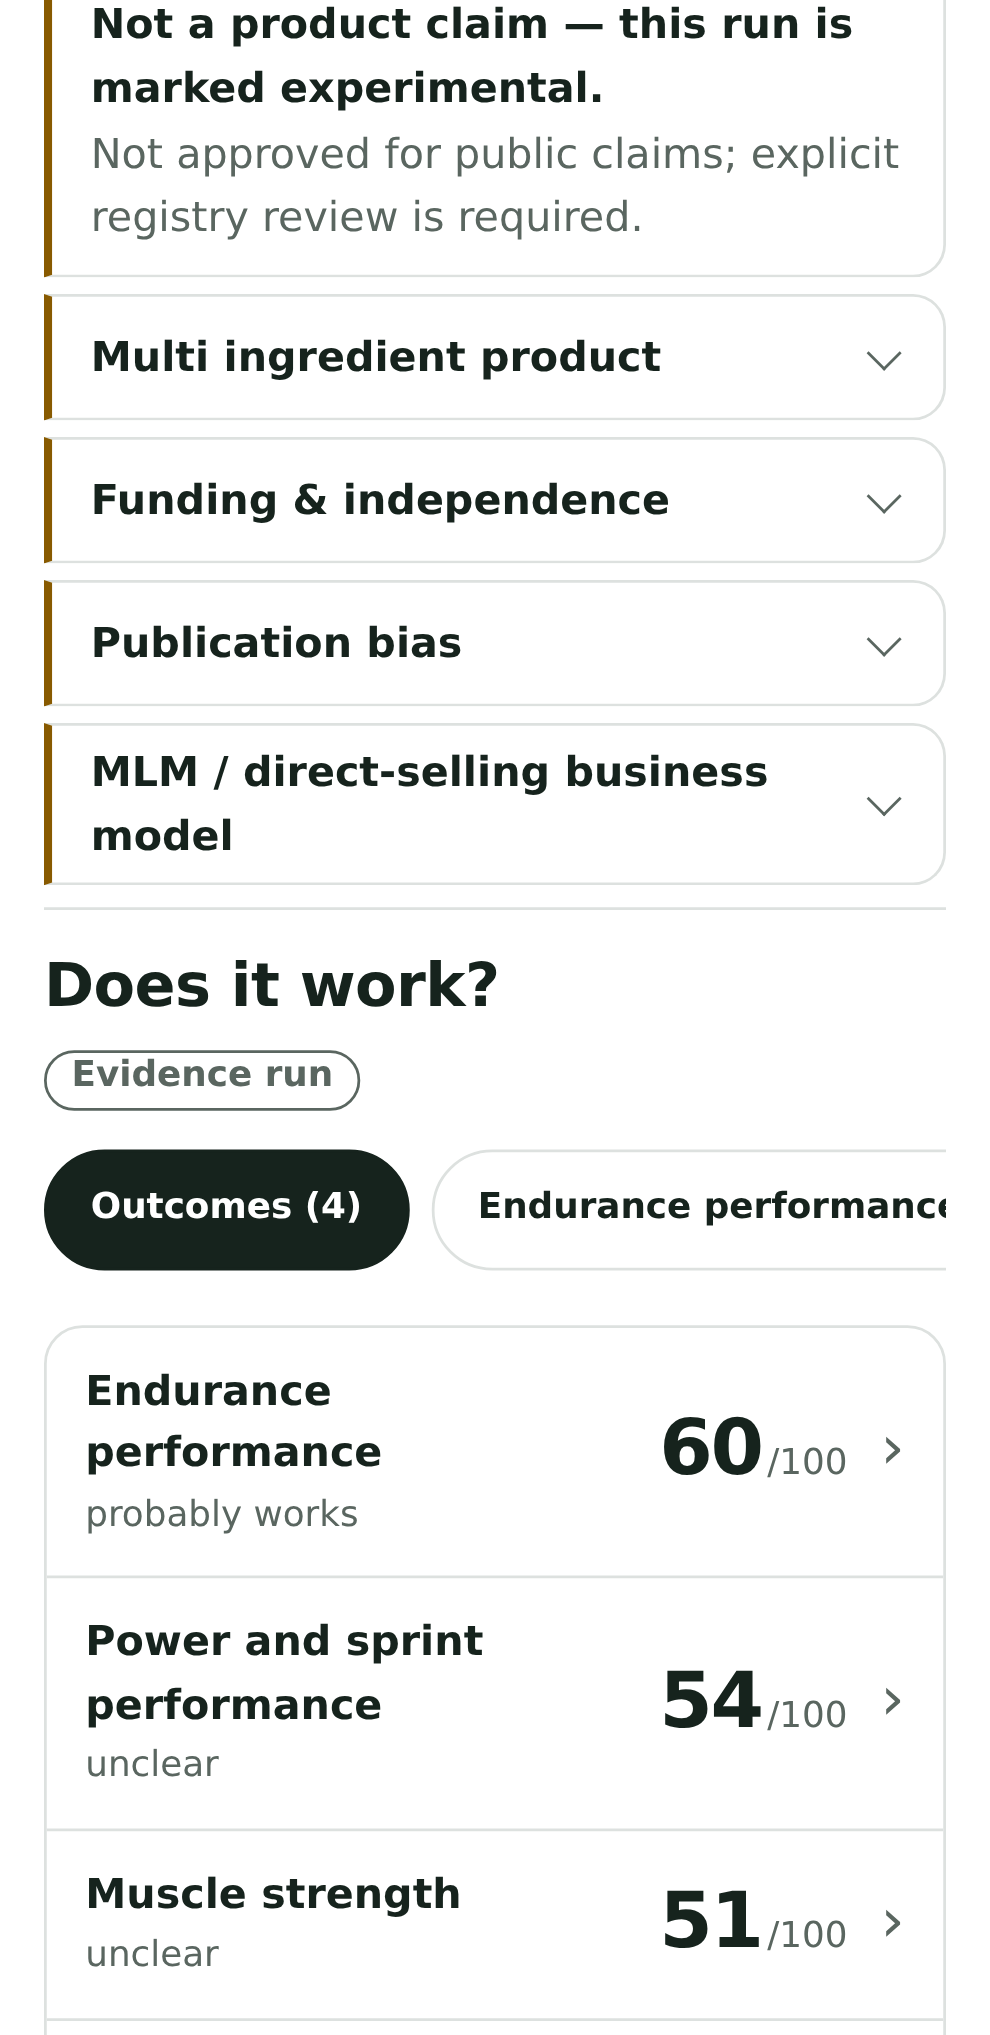
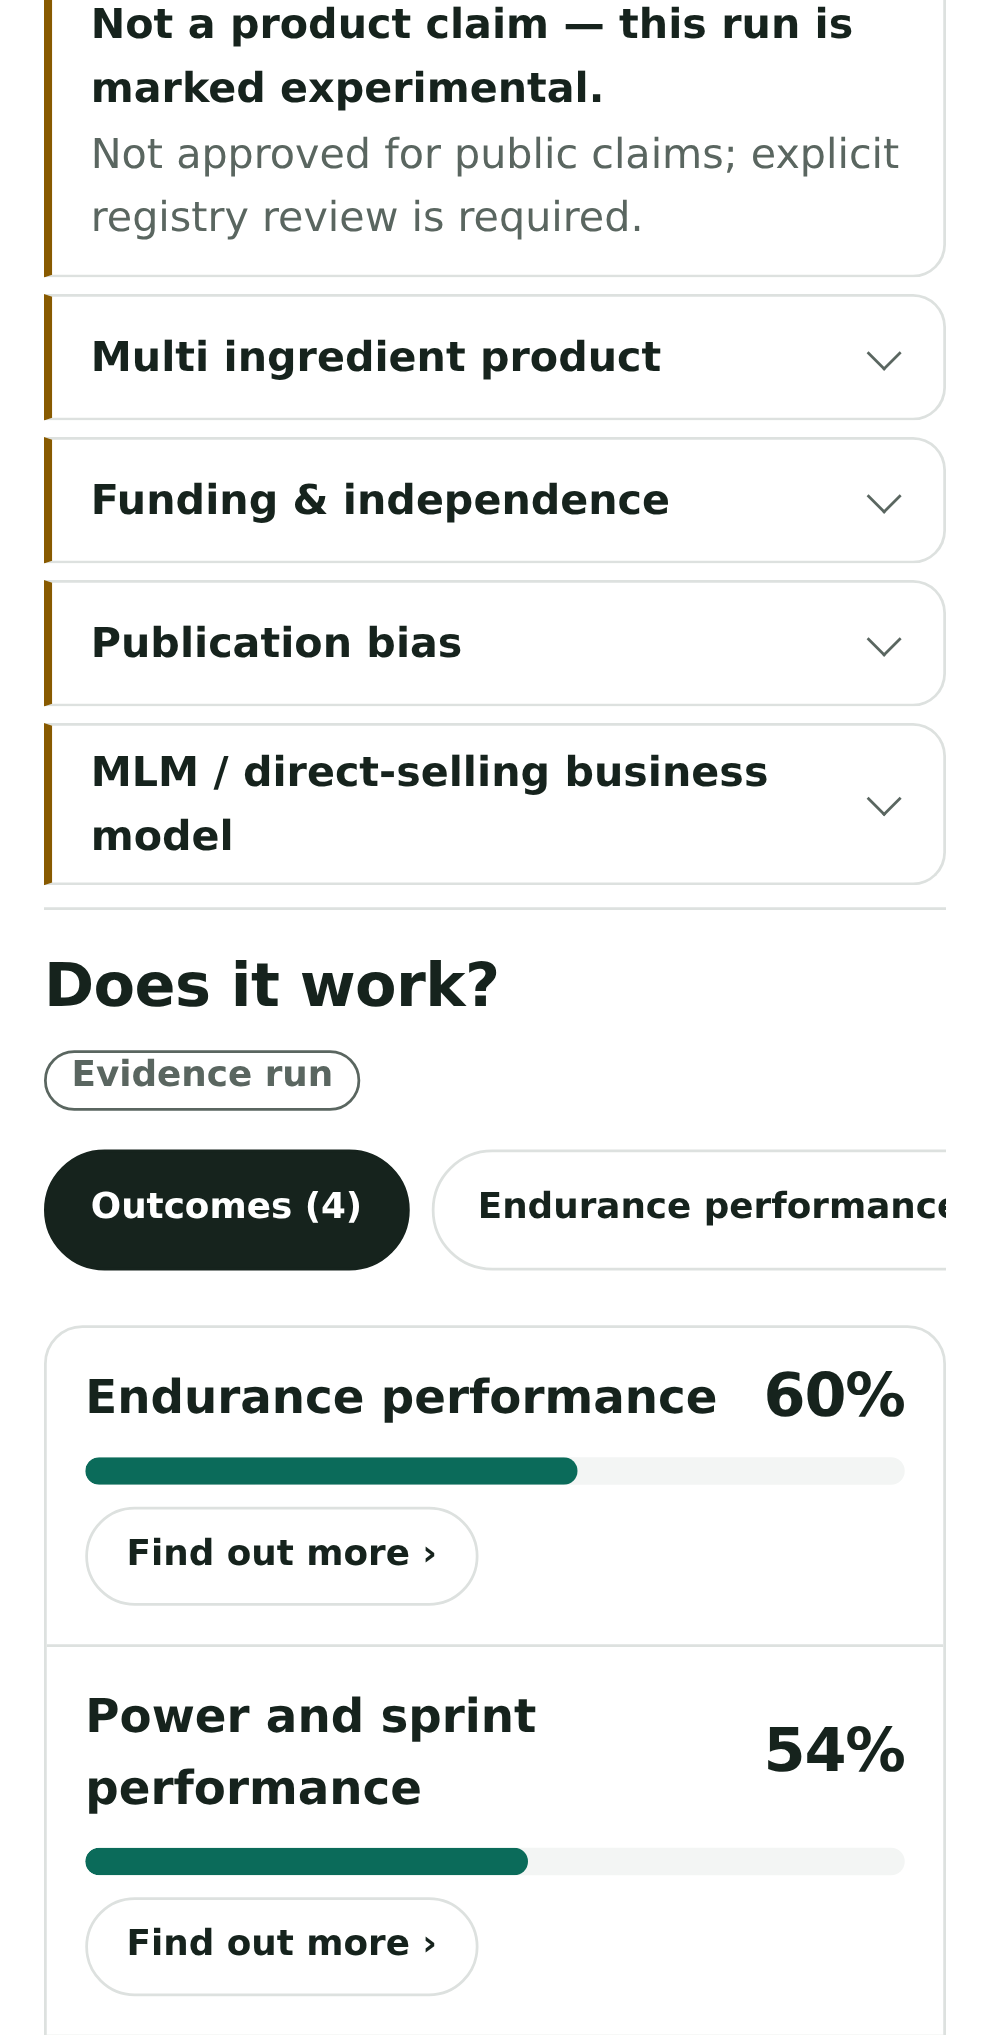
Preview: outcome rows as progress bars (score as %), 'Find out more' opens the outcome tab; design-lab keeps Hero + Overlap only
Applied to both the design-lab A/B card (app/design-lab/ab) and the /scan Outcomes tab so they match. Verdict word removed from the list rows; the bar and the number carry it. Gated rows keep a hatched track and an em dash. Checked: 436 tests, typecheck, lint (0 errors), build; 390/360 screenshots in docs/design/ref/tabs-preview.

Changed region(s): [[0.0606, 0.6501, 0.9394, 1.0], [0.6667, 0.8049, 0.9091, 0.8668], [0.6667, 0.9287, 0.8485, 0.9597]]

diff --git a/app/design-lab/ab/prototype.tsx b/app/design-lab/ab/prototype.tsx
@@ -186,12 +186,10 @@ const TRACK_FOR: Record<EffectBar["kind"], TrackState> = {
   fictional_points: "fill",
 };
 
-type Layout = "hero" | "middle" | "overlap" | "split";
+type Layout = "hero" | "overlap";
 const LAYOUTS: { id: Layout; name: string; blurb: string }[] = [
   { id: "hero", name: "1 · Hero", blurb: "photo on top" },
-  { id: "middle", name: "2 · Middle", blurb: "score, photo, rows" },
-  { id: "overlap", name: "3 · Overlap", blurb: "score floats on photo" },
-  { id: "split", name: "4 · Split", blurb: "photo beside score" },
+  { id: "overlap", name: "2 · Overlap", blurb: "score floats on photo" },
 ];
 
 function Interval({ scale }: { scale: IntervalScale }) {
@@ -223,7 +221,7 @@ export interface AbPrototypeProps {
 }
 
 export default function AbPrototype({ initial, publicTest = false }: AbPrototypeProps = {}) {
-  const [layout, setLayout] = useState<Layout>(initial?.layout ?? "middle");
+  const [layout, setLayout] = useState<Layout>(initial?.layout ?? "hero");
   const [key, setKey] = useState(initial?.product ?? "creatine");
   const [tab, setTab] = useState<string | null>(initial?.outcome ?? null); // null = the Outcomes list
   const [open, setOpen] = useState<string | null>(initial?.open ?? null);
@@ -267,11 +265,15 @@ export default function AbPrototype({ initial, publicTest = false }: AbPrototype
     };
   }) : [];
 
+  /* Outcome rows read like the dimension rows on the right: name, a progress
+   * bar filled to the 0-100 headline and that number as a percentage. No band
+   * word ("probably works") -- the bar and the number carry it; the drill-in
+   * button says where the detail lives. */
   const outcomeRows: Row[] = scored.map((x, i): Row => ({
     id: `o${i}`, name: x.o.name, sub: x.o.population, color: isPicked(x.o) ? "var(--ab-r1)" : "var(--ab-track)",
-    fill: null, track: "none", scale: null,
-    pts: x.r && x.r.headline !== null ? String(x.r.headline) : "—",
-    word: isPicked(x.o) ? (x.r ? x.r.label : x.o.effect.word) : "Not picked",
+    fill: x.r && x.r.headline !== null ? x.r.headline / 100 : null, track: x.r && x.r.headline !== null ? "fill" : "hatch", scale: null,
+    pts: x.r && x.r.headline !== null ? `${x.r.headline}%` : "—",
+    word: isPicked(x.o) ? "" : "Not picked",
     negative: false, detail: null, lines: [], sourceLinks: [], provenance: null, jump: x.k, dim: !isPicked(x.o),
   }));
   const rowsToShow = isList ? outcomeRows : dimRows;
@@ -317,7 +319,9 @@ export default function AbPrototype({ initial, publicTest = false }: AbPrototype
         <span className="ab-bar-name">{d.name}{d.sub && <small>{d.sub}</small>}</span>
         <span className="ab-bar-word">{d.word}</span>
         <span className="ab-bar-pts">{d.pts}</span>
-        <span className="ab-chev" aria-hidden="true"><svg width="16" height="16" viewBox="0 0 16 16"><path d={d.jump !== null ? "M6 3l5 5-5 5" : "M3 6l5 5 5-5"} fill="none" stroke="currentColor" strokeWidth="1.8" strokeLinecap="round" strokeLinejoin="round"/></svg></span>
+        {d.jump !== null
+          ? <span className="ab-more" aria-hidden="true">Find out more <svg width="12" height="12" viewBox="0 0 16 16"><path d="M6 3l5 5-5 5" fill="none" stroke="currentColor" strokeWidth="2" strokeLinecap="round" strokeLinejoin="round"/></svg></span>
+          : <span className="ab-chev" aria-hidden="true"><svg width="16" height="16" viewBox="0 0 16 16"><path d="M3 6l5 5 5-5" fill="none" stroke="currentColor" strokeWidth="1.8" strokeLinecap="round" strokeLinejoin="round"/></svg></span>}
         {d.track === "interval" && d.scale && <Interval scale={d.scale} />}
         {d.track !== "interval" && d.track !== "none" && <span className={`ab-bar-track ${d.track}`}>{d.track === "fill" && d.fill !== null && <i style={{ width: `${Math.round(d.fill * 100)}%`, background: d.negative ? "var(--ab-warn)" : d.color }} />}{d.track === "null-result" && <i className="ab-null-tick" />}</span>}
       </button>
@@ -360,12 +364,10 @@ export default function AbPrototype({ initial, publicTest = false }: AbPrototype
     </div>
   </main>;
 
-  return <main id="main-content" className="ab-stage"><aside className="ab-side"><a href="/design-lab/mobile">← Field Notebook</a><span className="ab-kicker">RESULT CARD</span><h1>Show the tub.<br />Then the <em>truth.</em></h1><p>Photo takes a third of the phone. Four placements to compare; the rows are identical in all of them, and none of them carries an overall score.</p><span className="ab-kicker">PHOTO PLACEMENT</span><div className="ab-layouts" role="tablist" aria-label="Layout">{LAYOUTS.map((l) => <button key={l.id} role="tab" aria-selected={layout === l.id} onClick={() => { setLayout(l.id); setOpen(null); }}><b>{l.name}</b><small>{l.blurb}</small></button>)}</div><span className="ab-kicker">EARLIER AUDITS · UPDATED EVIDENCE POLICY</span><div className="ab-scenarios">{Object.entries(liveScenarios).map(([k, v]) => <button key={k} aria-pressed={key === k} onClick={() => pick(k)}>{v.title}<small>{v.outcomes.length} outcomes · {v.live?.sources} sources</small></button>)}</div><span className="ab-kicker">EFFECT-ONLY RESEARCH · NEW</span><div className="ab-scenarios">{Object.entries(researchScenarios).map(([k, v]) => <button key={k} aria-pressed={key === k} onClick={() => pick(k)}>{v.title}<small>{v.outcomes.length} outcomes · {v.research?.sources.length} sources · no score</small></button>)}</div>{profileRow}<span className="ab-kicker">WHAT THE USER PICKED</span><div className="ab-picks">{s.outcomes.map((o) => <label key={outcomeKey(o.name, o.population)}><input type="checkbox" checked={isPicked(o)} onChange={() => togglePick(o)} />{o.name}{o.population && <small>{o.population}</small>}</label>)}</div><details className="ab-provenance"><summary>Fictional test ledgers</summary><div className="ab-scenarios">{Object.entries(scenarios).map(([k, v]) => <button key={k} aria-pressed={key === k} onClick={() => pick(k)}>{v.title}<small>{v.product}</small></button>)}</div></details>{s.live ? <p className="ab-fine"><strong>Previous audit</strong> run {s.live.runAt} by {s.live.model}. Its effect text and sources are shown as written then and were <strong>not reverified</strong> in this pass; scores now exclude funding and publication-bias penalties. Model confidence: {s.live.confidence}. {s.live.doseNote}</p> : s.research ? <p className="ab-fine"><strong>Effect-only research pass</strong> {s.research.meta.run_at}, {s.research.meta.model}. {s.research.meta.note} <b>Reading rules:</b> {s.research.guards.join(" ")}</p> : <p className="ab-fine">Hand-written inputs to exercise the rubric; no search or model call produced this card. The numeric bars here are invented.</p>}</aside>
+  return <main id="main-content" className="ab-stage"><aside className="ab-side"><a href="/design-lab/mobile">← Field Notebook</a><span className="ab-kicker">RESULT CARD</span><h1>Show the tub.<br />Then the <em>truth.</em></h1><p>Photo takes a third of the phone. Two placements to compare; the rows are identical in both, and neither carries an overall score.</p><span className="ab-kicker">PHOTO PLACEMENT</span><div className="ab-layouts" role="tablist" aria-label="Layout">{LAYOUTS.map((l) => <button key={l.id} role="tab" aria-selected={layout === l.id} onClick={() => { setLayout(l.id); setOpen(null); }}><b>{l.name}</b><small>{l.blurb}</small></button>)}</div><span className="ab-kicker">EARLIER AUDITS · UPDATED EVIDENCE POLICY</span><div className="ab-scenarios">{Object.entries(liveScenarios).map(([k, v]) => <button key={k} aria-pressed={key === k} onClick={() => pick(k)}>{v.title}<small>{v.outcomes.length} outcomes · {v.live?.sources} sources</small></button>)}</div><span className="ab-kicker">EFFECT-ONLY RESEARCH · NEW</span><div className="ab-scenarios">{Object.entries(researchScenarios).map(([k, v]) => <button key={k} aria-pressed={key === k} onClick={() => pick(k)}>{v.title}<small>{v.outcomes.length} outcomes · {v.research?.sources.length} sources · no score</small></button>)}</div>{profileRow}<span className="ab-kicker">WHAT THE USER PICKED</span><div className="ab-picks">{s.outcomes.map((o) => <label key={outcomeKey(o.name, o.population)}><input type="checkbox" checked={isPicked(o)} onChange={() => togglePick(o)} />{o.name}{o.population && <small>{o.population}</small>}</label>)}</div><details className="ab-provenance"><summary>Fictional test ledgers</summary><div className="ab-scenarios">{Object.entries(scenarios).map(([k, v]) => <button key={k} aria-pressed={key === k} onClick={() => pick(k)}>{v.title}<small>{v.product}</small></button>)}</div></details>{s.live ? <p className="ab-fine"><strong>Previous audit</strong> run {s.live.runAt} by {s.live.model}. Its effect text and sources are shown as written then and were <strong>not reverified</strong> in this pass; scores now exclude funding and publication-bias penalties. Model confidence: {s.live.confidence}. {s.live.doseNote}</p> : s.research ? <p className="ab-fine"><strong>Effect-only research pass</strong> {s.research.meta.run_at}, {s.research.meta.model}. {s.research.meta.note} <b>Reading rules:</b> {s.research.guards.join(" ")}</p> : <p className="ab-fine">Hand-written inputs to exercise the rubric; no search or model call produced this card. The numeric bars here are invented.</p>}</aside>
   <div className="ab-phone"><div className="ab-status"><b>9:41</b><i /><span>▮▮▮ ▰</span></div><div className={`ab-screen layout-${layout}`}>
     {layout === "hero" && <>{header}{photo}{tabs}<section className="ab-card">{block}{warnings}{bars}{gates}</section></>}
-    {layout === "middle" && <>{header}{tabs}{block}{warnings}{photo}<section className="ab-card">{bars}{gates}</section></>}
     {layout === "overlap" && <>{photo}<div className="ab-overlap-wrap">{header}{block}</div>{tabs}{warnings}<section className="ab-card">{bars}{gates}</section></>}
-    {layout === "split" && <>{header}{tabs}<div className="ab-split">{photo}<div className="ab-split-score">{block}</div></div>{warnings}<section className="ab-card">{bars}{gates}</section></>}
   </div></div>
-  <aside className="ab-notes"><span className="ab-kicker">THE FOUR PLACEMENTS</span><h3>1 · Hero</h3><p>Photo first, big and calm. The outcome list sits under it. Most “product page” feeling.</p><h3>2 · Middle</h3><p>Outcomes first, photo between the intro and the rows — the founder’s “a third, in the middle”.</p><h3>3 · Overlap</h3><p>Full-bleed photo; the block floats over its bottom edge. Most editorial, least whitespace.</p><h3>4 · Split</h3><p>Photo left, text right, side by side. Shortest; leaves room below the rows.</p><h3>Outcomes first</h3><p>Landing tab. <b>There is no overall number and no overall band.</b> A product is not one benefit: each row is a question in a named population, and tapping it drills in. Numbers beside a row are the earlier rubric, shown unchanged.</p><h3>The Effect bar</h3><p>Never a tier fill. When a source reported an estimate and an interval, the interval is drawn in its own unit and labelled <i>reported estimate, not a grade</i>. With an estimate and no interval, the point is drawn and the interval is called unavailable. Otherwise the track is hatched and reads <i>size not graded</i> — which is not the same as <i>no evidence found</i> or <i>no meaningful benefit</i>.</p></aside></main>;
+  <aside className="ab-notes"><span className="ab-kicker">THE TWO PLACEMENTS</span><h3>1 · Hero</h3><p>Photo first, big and calm. The outcome list sits under it. Most “product page” feeling.</p><h3>2 · Overlap</h3><p>Full-bleed photo; the block floats over its bottom edge. Most editorial, least whitespace.</p><p className="ab-fine">Middle and Split were dropped 2026-09-16 (founder pick).</p><h3>Outcomes first</h3><p>Landing tab. <b>There is no overall number and no overall band.</b> A product is not one benefit: each row is a question in a named population, and tapping it drills in. Numbers beside a row are the earlier rubric, shown unchanged.</p><h3>The Effect bar</h3><p>Never a tier fill. When a source reported an estimate and an interval, the interval is drawn in its own unit and labelled <i>reported estimate, not a grade</i>. With an estimate and no interval, the point is drawn and the interval is called unavailable. Otherwise the track is hatched and reads <i>size not graded</i> — which is not the same as <i>no evidence found</i> or <i>no meaningful benefit</i>.</p></aside></main>;
 }

diff --git a/app/globals.css b/app/globals.css
@@ -1324,18 +1324,23 @@ body:has(.scan-page) .footer-inner p:last-child { display: none; }
 .scan-page .sc-outcome-list { list-style: none; margin: 0; padding: 0; border: 1px solid var(--sp-line); border-radius: 14px; background: var(--sp-white); overflow: hidden; }
 .scan-page .sc-outcome-list li + li { border-top: 1px solid var(--sp-line); }
 .scan-page .sc-outcome-row {
-  display: grid; grid-template-columns: 1fr auto auto; align-items: center; gap: 12px;
-  width: 100%; min-height: 64px; padding: 12px 14px; border: 0; background: transparent; color: inherit;
+  display: grid; grid-template-columns: 1fr auto; grid-template-rows: auto auto auto; align-items: center; gap: 8px 12px;
+  width: 100%; padding: 14px; border: 0; background: transparent; color: inherit;
   font: inherit; text-align: left; cursor: pointer;
 }
 .scan-page .sc-outcome-row:hover { background: var(--sp-tint); }
-.scan-page .sc-outcome-row-name { display: grid; gap: 2px; min-width: 0; }
-.scan-page .sc-outcome-row-name strong { font-size: var(--fs-2); font-weight: 600; }
-.scan-page .sc-outcome-row-name .sc-verdict { margin: 0; font-size: var(--fs-1); color: var(--sp-mute); }
-.scan-page .sc-outcome-row-score { display: flex; align-items: baseline; gap: 2px; font-variant-numeric: tabular-nums; }
-.scan-page .sc-outcome-row-score strong { font-size: var(--fs-5); font-weight: 700; letter-spacing: -0.03em; line-height: 1; }
-.scan-page .sc-outcome-row-score span { color: var(--sp-mute); font-size: 13px; }
-.scan-page .sc-outcome-row-chev { color: var(--sp-mute); font-size: 22px; line-height: 1; }
+.scan-page .sc-outcome-row-name { grid-column: 1; grid-row: 1; min-width: 0; }
+.scan-page .sc-outcome-row-name strong { font-size: var(--fs-3); font-weight: 600; }
+.scan-page .sc-outcome-row-score { grid-column: 2; grid-row: 1; font-variant-numeric: tabular-nums; }
+.scan-page .sc-outcome-row-score strong { font-size: var(--fs-4); font-weight: 700; letter-spacing: -0.02em; line-height: 1; }
+.scan-page .sc-outcome-row-track { grid-column: 1 / 3; grid-row: 2; display: block; height: 10px; border-radius: 999px; background: var(--sp-tint); overflow: hidden; }
+.scan-page .sc-outcome-row-gated .sc-outcome-row-track { background: repeating-linear-gradient(135deg, var(--sp-tint) 0 5px, transparent 5px 9px); border: 1px dashed var(--sp-line); }
+.scan-page .sc-outcome-row-fill { display: block; height: 100%; border-radius: 999px; background: var(--sp-measured); }
+.scan-page .sc-outcome-row-more {
+  grid-column: 1 / 3; grid-row: 3; justify-self: start; display: inline-flex; align-items: center; min-height: 36px; padding: 0 14px;
+  border: 1px solid var(--sp-line); border-radius: 999px; background: var(--sp-white); font-size: var(--fs-1); font-weight: 600; color: var(--sp-ink);
+}
+.scan-page .sc-outcome-row:hover .sc-outcome-row-more { background: var(--sp-ink); color: var(--sp-white); border-color: var(--sp-ink); }
 .scan-page .sc-tab-back {
   justify-self: start; min-height: 44px; padding: 0 14px; border: 1px solid var(--sp-line); border-radius: 999px;
   background: var(--sp-white); color: var(--sp-ink); font: inherit; font-size: var(--fs-1); font-weight: 600; cursor: pointer;

diff --git a/components/scan-flow.tsx b/components/scan-flow.tsx
@@ -329,16 +329,13 @@ function OutcomeTabs({ rows }: { rows: EvidenceRow[] }) {
               const gated = row.composite === null;
               return (
                 <li key={row.outcome}>
-                  <button type="button" className="sc-outcome-row" onClick={() => go(row.outcome, true)} aria-label={`${label(row)}, ${gated ? "no composite score" : `${row.composite} out of 100`}, ${row.verdict ?? "no verdict"}. Open details`}>
-                    <span className="sc-outcome-row-name">
-                      <strong>{label(row)}</strong>
-                      <span className="sc-verdict">{row.verdict ?? "no verdict"}</span>
+                  <button type="button" className={`sc-outcome-row${gated ? " sc-outcome-row-gated" : ""}`} onClick={() => go(row.outcome, true)} aria-label={`${label(row)}, ${gated ? "no composite score" : `${row.composite} out of 100`}. Find out more`}>
+                    <span className="sc-outcome-row-name"><strong>{label(row)}</strong></span>
+                    <span className="sc-outcome-row-score"><strong>{gated ? "—" : `${row.composite}%`}</strong></span>
+                    <span className="sc-outcome-row-track" aria-hidden="true">
+                      <span className="sc-outcome-row-fill" style={{ width: `${gated ? 0 : Math.max(0, Math.min(100, row.composite ?? 0))}%` }} />
                     </span>
-                    <span className="sc-outcome-row-score">
-                      <strong>{gated ? "—" : row.composite}</strong>
-                      <span aria-hidden="true">/100</span>
-                    </span>
-                    <span className="sc-outcome-row-chev" aria-hidden="true">›</span>
+                    <span className="sc-outcome-row-more" aria-hidden="true">Find out more ›</span>
                   </button>
                 </li>
               );

diff --git a/app/design-lab/ab/ab.css b/app/design-lab/ab/ab.css
@@ -127,7 +127,14 @@ body:has(.ab-stage)>.site-header,body:has(.ab-stage)>.site-footer{display:none}
 .ab-split .ab-number{width:72px;height:72px}
 .ab-split .ab-number strong{font-size:30px}
 
-.ab-bars.outcomes li>button{grid-template-columns:minmax(0,1.15fr) minmax(0,1fr) auto 20px;grid-template-rows:auto;row-gap:0;min-height:56px}
+.ab-bars.outcomes li>button{grid-template-columns:minmax(0,1fr) auto;grid-template-rows:auto auto auto;row-gap:6px;min-height:72px;padding:10px 2px 12px}
+.ab-bars.outcomes .ab-bar-name{grid-column:1;grid-row:1}
+.ab-bars.outcomes .ab-bar-word{grid-column:1;grid-row:1;justify-self:end;align-self:start;margin-right:8px}
+.ab-bars.outcomes .ab-bar-word:empty{display:none}
+.ab-bars.outcomes .ab-bar-pts{grid-column:2;grid-row:1;font-size:14px;align-self:start}
+.ab-bars.outcomes .ab-bar-track{grid-column:1/3;grid-row:2}
+.ab-more{grid-column:1/3;grid-row:3;justify-self:start;display:inline-flex;align-items:center;gap:4px;min-height:32px;padding:0 12px;border:1px solid var(--ab-line);border-radius:999px;font-size:12px;font-weight:650;color:var(--ab-ink,inherit);background:var(--ab-surface)}
+.ab-bars.outcomes li>button:hover .ab-more{background:var(--ab-track)}
 .ab-bars.outcomes .ab-bar-name{overflow:hidden}
 .ab-bars.outcomes .ab-bar-name>small{white-space:normal}
 
